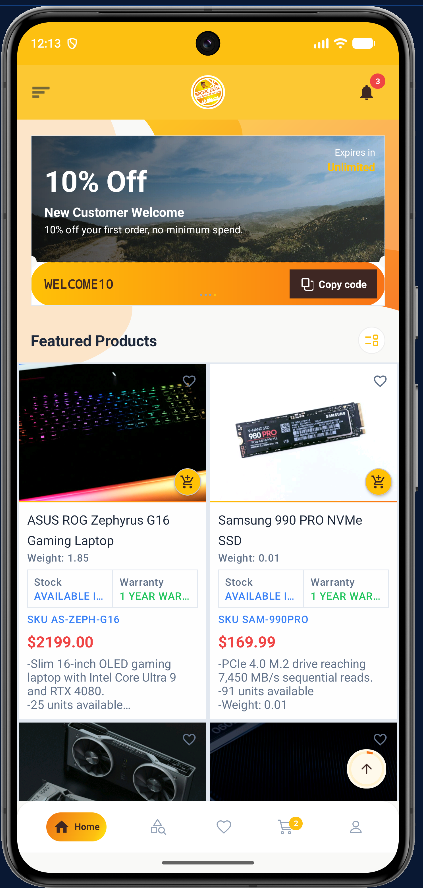
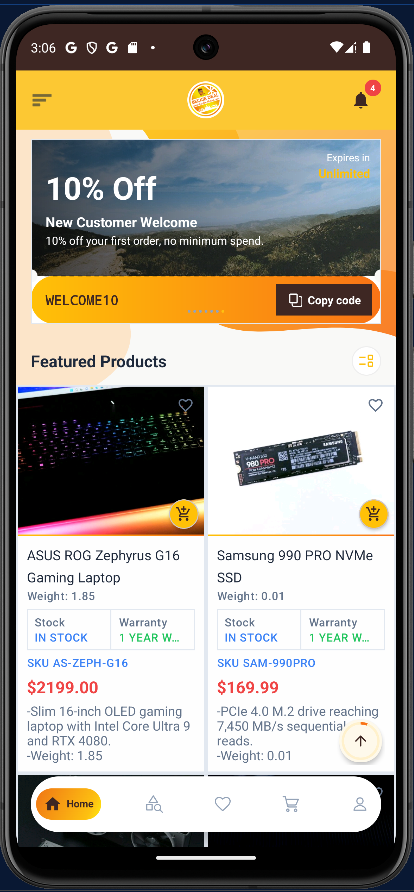
final commit update read.ne

diff --git a/README.md b/README.md
@@ -17,26 +17,70 @@
 <table>
   <tr>
     <td align="center">
-      <img src="assets/home1.png" alt="Home Screen" width="250" style="border-radius: 20px;"/>
+      <img src="assets/home.png" alt="Home Screen" width="180" style="border-radius: 20px;"/>
       <br/>
-      <b>Home & Discover</b>
+      <b>Home</b>
     </td>
     <td align="center">
-      <img src="assets/home2.png" alt="Explore Screen" width="250" style="border-radius: 20px;"/>
+      <img src="assets/home2.png" alt="Explore Screen" width="180" style="border-radius: 20px;"/>
       <br/>
-      <b>Browse & Explore</b>
+      <b>Explore</b>
+    </td>
+    <td align="center">
+      <img src="assets/category.png" alt="Category" width="180" style="border-radius: 20px;"/>
+      <br/>
+      <b>Category</b>
     </td>
   </tr>
   <tr>
     <td align="center">
-      <img src="assets/wishlist.png" alt="Wishlist" width="250" style="border-radius: 20px;"/>
+      <img src="assets/wishlist.png" alt="Wishlist" width="180" style="border-radius: 20px;"/>
       <br/>
-      <b>Wishlist & Favorites</b>
+      <b>Wishlist</b>
     </td>
     <td align="center">
-      <img src="assets/profile.png" alt="Profile" width="250" style="border-radius: 20px;"/>
+      <img src="assets/profile.png" alt="Profile" width="180" style="border-radius: 20px;"/>
       <br/>
-      <b>Profile & Account</b>
+      <b>Profile</b>
+    </td>
+    <td align="center">
+      <img src="assets/signin.png" alt="Sign In" width="180" style="border-radius: 20px;"/>
+      <br/>
+      <b>Sign In</b>
+    </td>
+  </tr>
+  <tr>
+    <td align="center">
+      <img src="assets/add_to_cart.png" alt="Add to Cart" width="180" style="border-radius: 20px;"/>
+      <br/>
+      <b>Add to Cart</b>
+    </td>
+    <td align="center">
+      <img src="assets/category_stack_wallet.png" alt="Wallet" width="180" style="border-radius: 20px;"/>
+      <br/>
+      <b>Payment</b>
+    </td>
+    <td align="center">
+      <img src="assets/sidebar_dark_mode.png" alt="Dark Mode" width="180" style="border-radius: 20px;"/>
+      <br/>
+      <b>Settings</b>
+    </td>
+  </tr>
+  <tr>
+    <td align="center">
+      <img src="assets/regsiter.png" alt="Register" width="180" style="border-radius: 20px;"/>
+      <br/>
+      <b>Register</b>
+    </td>
+    <td align="center">
+      <img src="assets/forget_pwd.png" alt="Forgot Password" width="180" style="border-radius: 20px;"/>
+      <br/>
+      <b>Forgot Password</b>
+    </td>
+    <td align="center">
+      <img src="assets/lost_internet.png" alt="No Internet" width="180" style="border-radius: 20px;"/>
+      <br/>
+      <b>No Internet</b>
     </td>
   </tr>
 </table>
